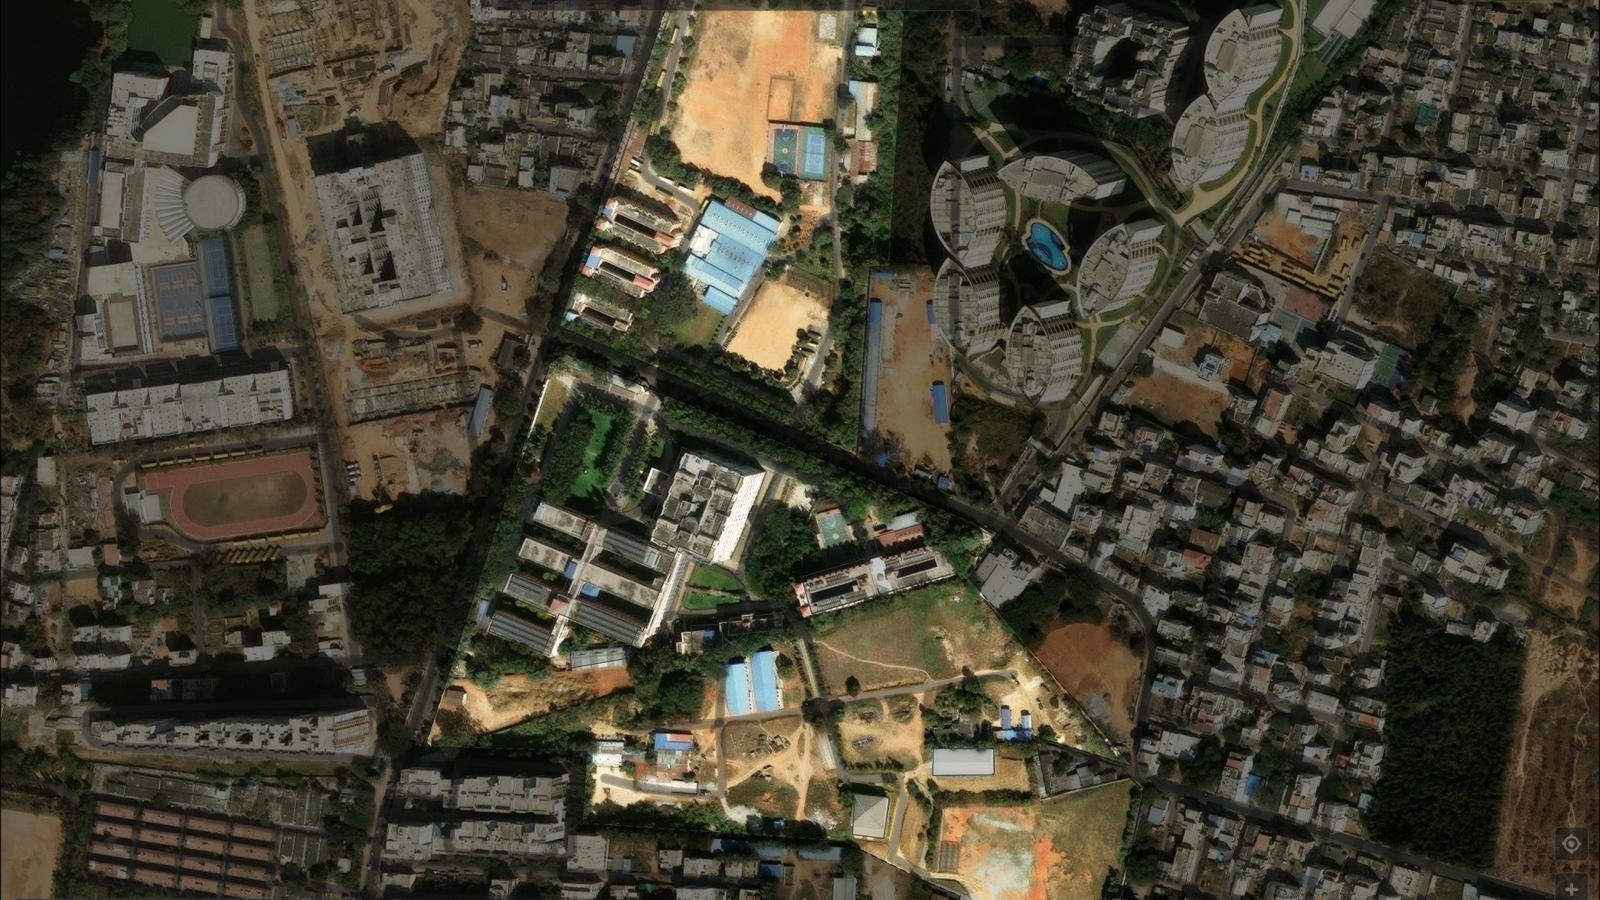
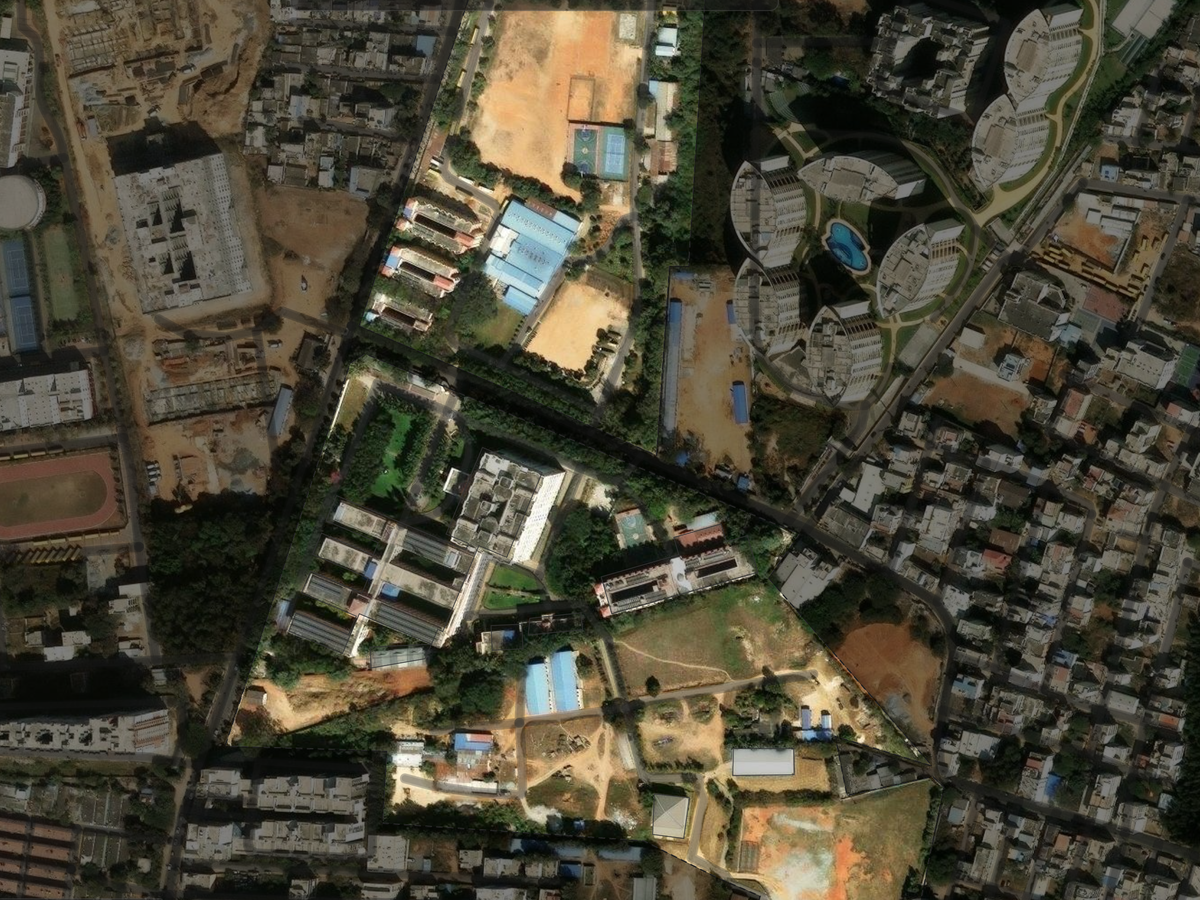
quest cards: 4:3 images instead of 16:9
- reshot amrita.town, clubs.amrita.town, timetable.amrita.town at a
  4:3 viewport (1280x960), re-cropped map.png to 1200x900
- card frame, img attributes, and placeholder.svg all 4:3 (320x240)
- README updated to the 4:3 guidance

diff --git a/src/styles/quests.css b/src/styles/quests.css
@@ -46,7 +46,7 @@
 
 .quest-img {
 	width: 100%;
-	aspect-ratio: 16 / 9;
+	aspect-ratio: 4 / 3;
 	object-fit: cover;
 	display: block;
 	border: 1px solid var(--secondary);

diff --git a/README.md b/README.md
@@ -56,11 +56,11 @@ Frontmatter fields:
 | `order`  | yes      | sort order within its section                 |
 | `repo`   | no       | link to the repository, shown as `repo`       |
 | `site`   | no       | link to the live site, shown as `site`        |
-| `image`  | no       | path or url of the card image, 16:9           |
+| `image`  | no       | path or url of the card image, 4:3           |
 
 Every card shows `/placeholder.svg` until the quest sets `image`. Put the
 image in `public/` and reference it with a leading slash, for example
-`/my-idea.png`. A 16:9 image works best; the card crops with `object-fit:
+`/my-idea.png`. A 4:3 image works best; the card crops with `object-fit:
 cover`.
 
 `order` numbers do not need to be unique across sections. The sections sort
